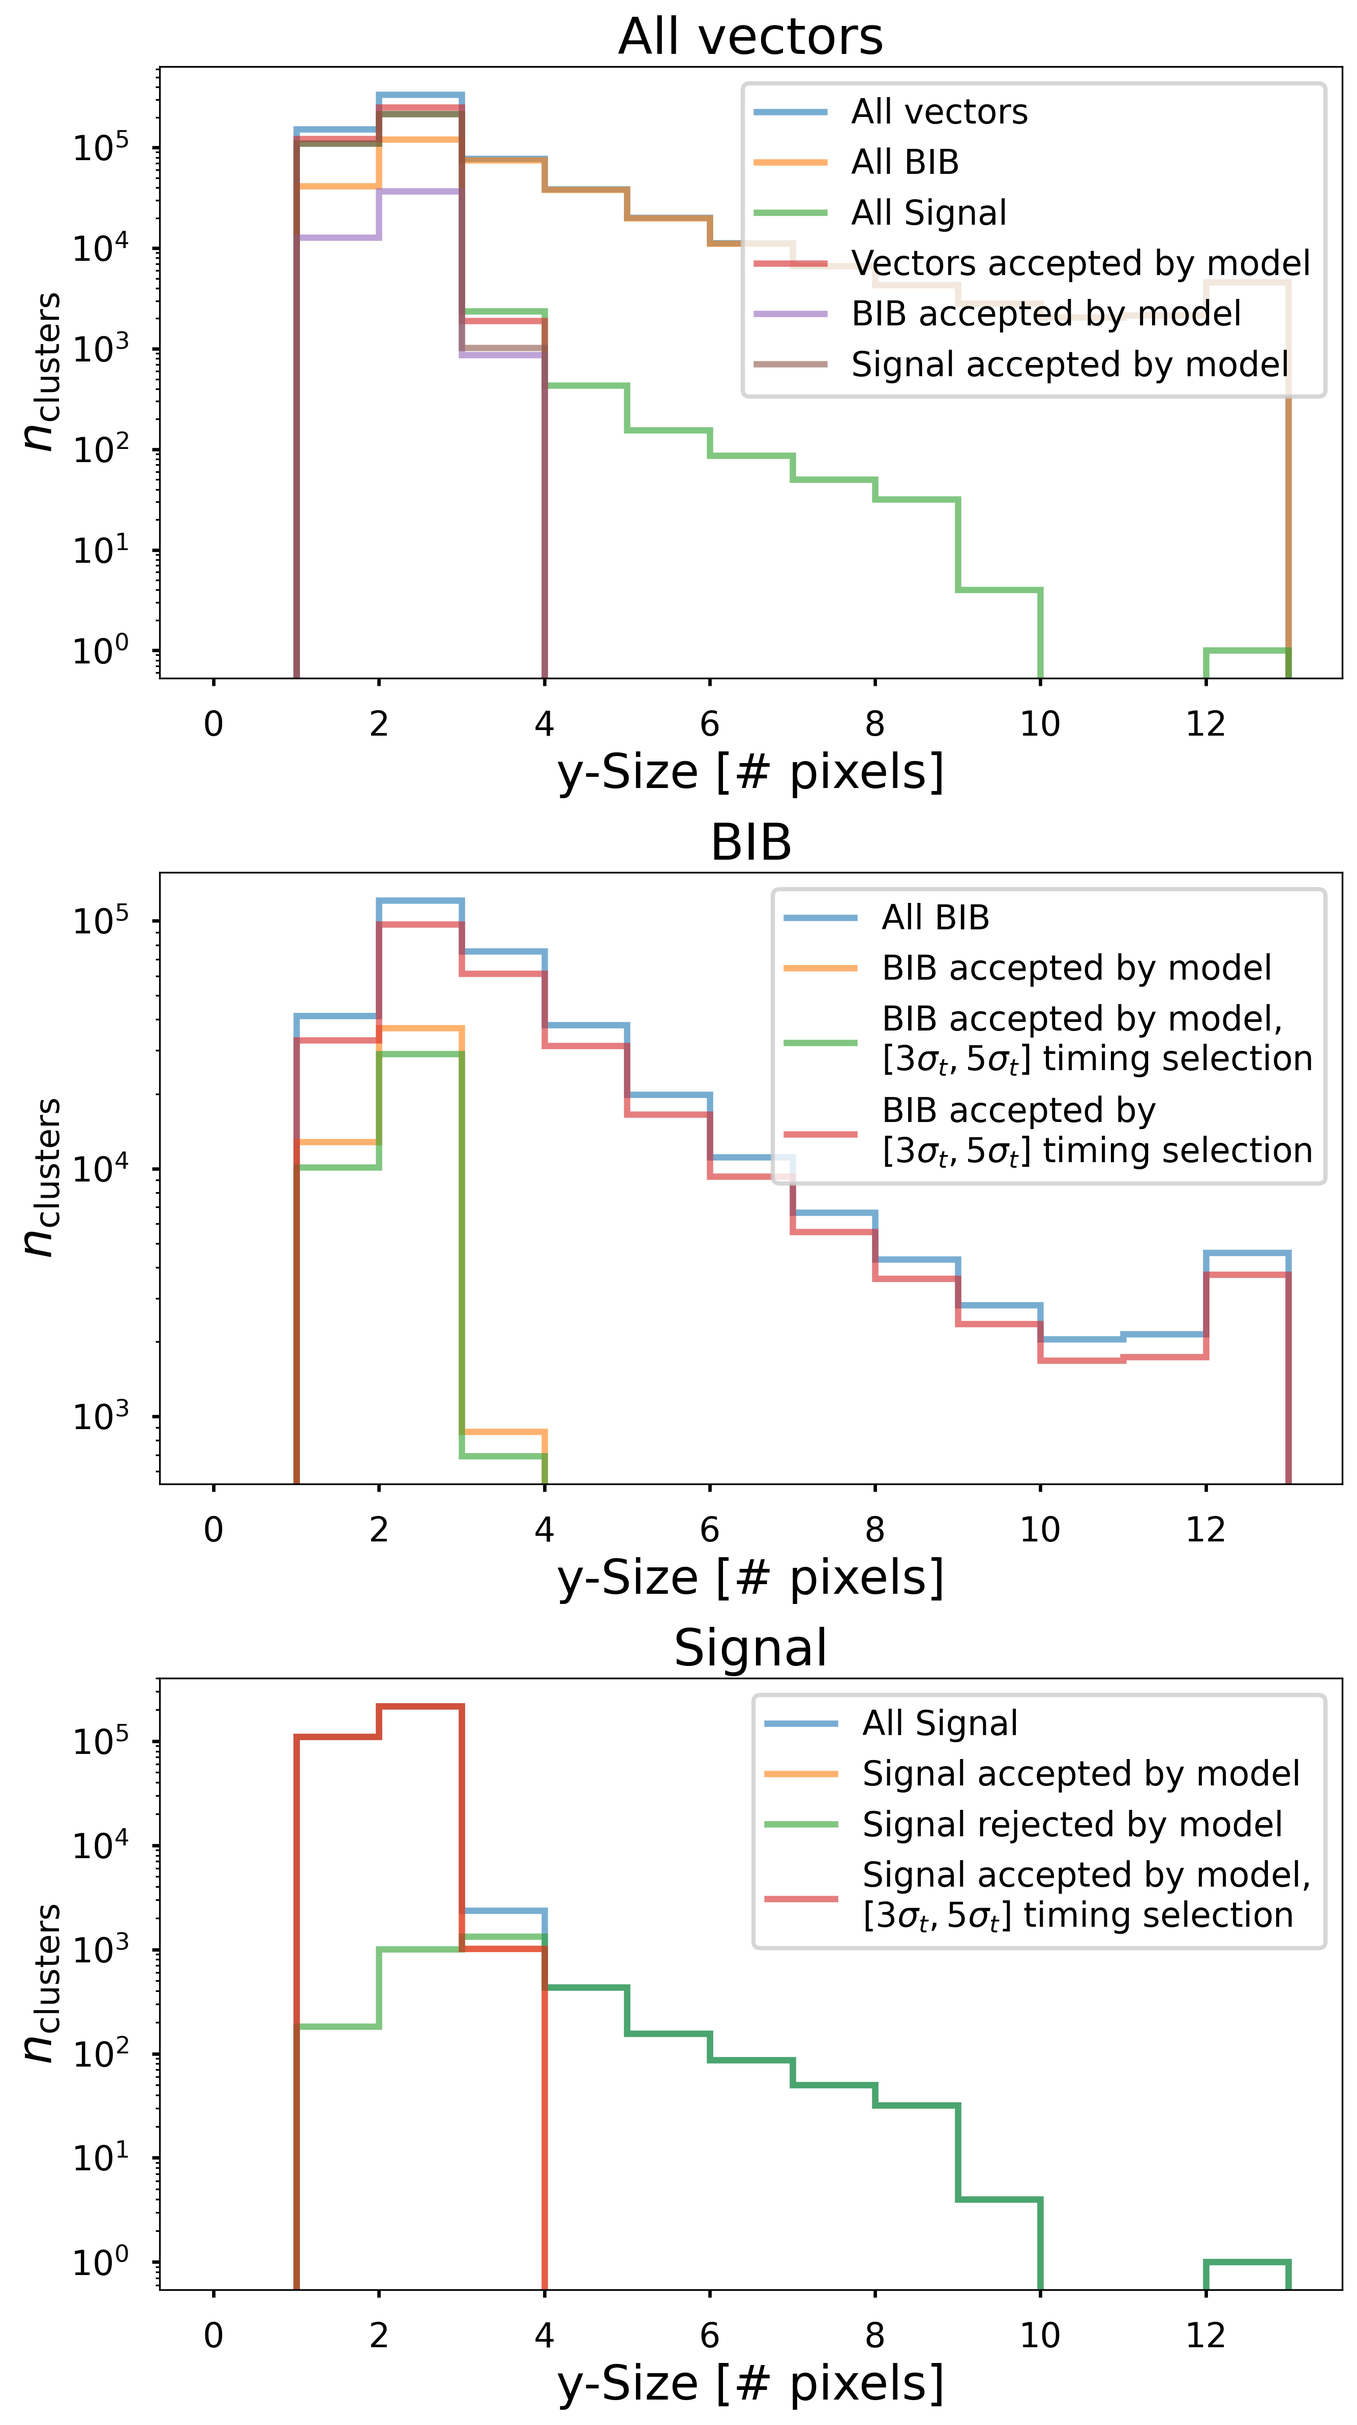
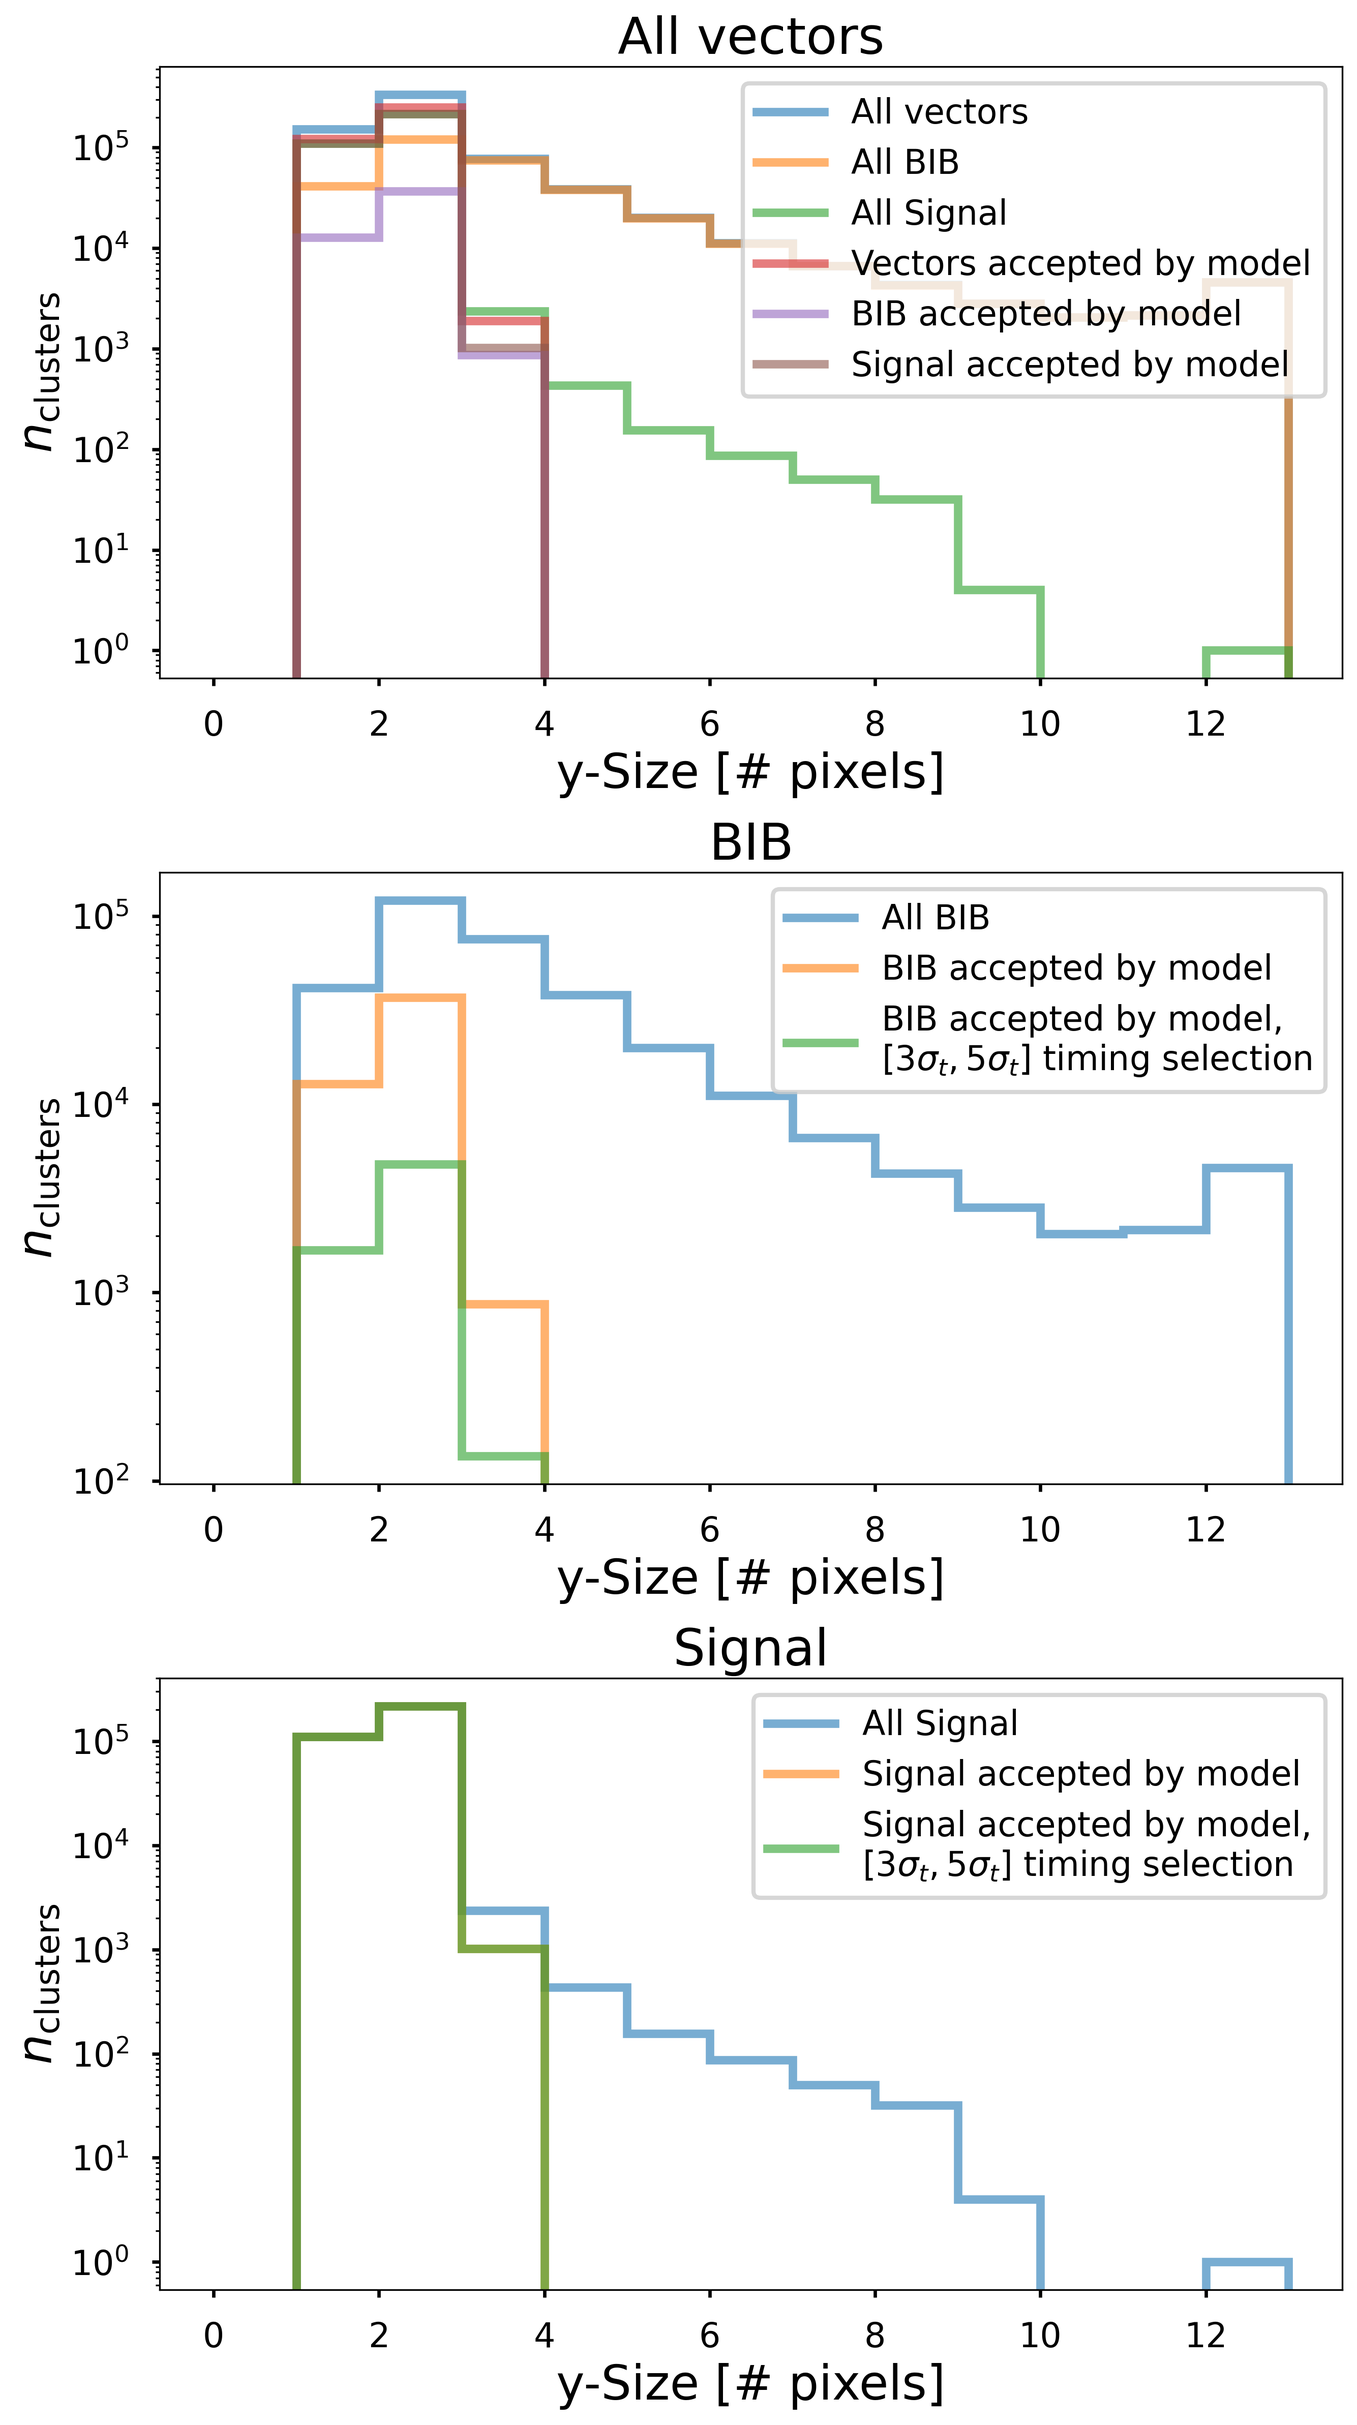
Updates to some paper plots for resubmission last week.
updated plotUtils.py to get passed in linewidth or by default use
the rcParams linewidth for drawing histograms.

updated predictionPlotter.py to resize some of the paper plots

diff --git a/paperPlots/predictionPlotter.py b/paperPlots/predictionPlotter.py
@@ -30,7 +30,7 @@ plt.style.use(styleSheet)
 N_CPU = 1
 loadPredVarPkl = True #if true then load based on saved pkls, if false regenerate the predVarDF and save new pkls
 FILTER_TIME = True #add the -0.5 to 15 ns filter
-TIMING_SMEARING = 400; #ps
+TIMING_SMEARING = 30; #ps
 
 matplotlib.rcParams["figure.dpi"] = 300
 plt.rcParams["patch.linewidth"] = 2
@@ -216,19 +216,19 @@ def runForPath(path,filterTime=FILTER_TIME,timingSigmaPs=TIMING_SMEARING):
 
     assert f"{timingSigmaPs}" in timingVar
 
-    plotSeveral2by2s(predVarDF, threshVal, pltDir)
+    # plotSeveral2by2s(predVarDF, threshVal, pltDir)
     plotAll1dHists(predVarDF,threshVal,pltDir,timingVar=timingVar,timingStart=timingStart,timingEnd=timingEnd)
-    plotNew2by2(predVarDF, threshVal, pltDir)
+    # plotNew2by2(predVarDF, threshVal, pltDir)
 
-    newDataRates(predVarDF,threshVal,pltDir,timingVar=timingVar,timingStart=timingStart,timingEnd=timingEnd)
+    # newDataRates(predVarDF,threshVal,pltDir,timingVar=timingVar,timingStart=timingStart,timingEnd=timingEnd)
 
 def plotAll1dHists(predVarDF,threshVal,pltDir,timingVar="adjusted_hit_time_30ps_gaussian",timingStart=-0.09,timingEnd=0.150):
     print(predVarDF)
     print(predVarDF.keys())
     if timingVar in predVarDF.keys():
         histoKarri(predVarDF,threshVal,pltDir,key=timingVar,keyLabel="Cluster Hit Arrival Time [ns]",figsize=(9,16),bins=100,timingVar=timingVar,timingStart=timingStart,timingEnd=timingEnd)
-        histoKarri(predVarDF,threshVal,pltDir,key=timingVar,keyLabel=r"$t_{\mathrm{corr}}$ [ns]",figsize=(9,7),bins=np.arange(timingStart-.24*2,15,.24),plotAll=False,plotSig=False,extendSaveTitle="paperVersion",bibTitle="",ylim=[1e1,4.5e4],timingVar=timingVar,timingStart=timingStart,timingEnd=timingEnd,)
-    histoKarri(predVarDF,threshVal,pltDir,key="z-global",keyLabel=r'$z_{\mathrm{global}}$ [mm]',figsize=(9,7),bins=60,plotAll=False,plotSig = False,extendSaveTitle="paperVersion",bibTitle="",ylim=[1e1,4.5e4],locLegend="upper center",extraLinebreak="",timingVar=timingVar,timingStart=timingStart,timingEnd=timingEnd)
+        histoKarri(predVarDF,threshVal,pltDir,key=timingVar,keyLabel=r"$t_{\mathrm{corr}}$ [ns]",figsize=(8,6.2),bins=np.arange(timingStart-.24*2,15,.24),plotAll=False,plotSig=False,extendSaveTitle="paperVersion",bibTitle="",ylim=[1e1,1.1e5],timingVar=timingVar,timingStart=timingStart,timingEnd=timingEnd,)
+    histoKarri(predVarDF,threshVal,pltDir,key="z-global",keyLabel=r'$z_{\mathrm{global}}$ [mm]',figsize=(8,6.2),bins=60,plotAll=False,plotSig = False,extendSaveTitle="paperVersion",bibTitle="",ylim=[1e1,1.1e5],locLegend="upper center",extraLinebreak="",timingVar=timingVar,timingStart=timingStart,timingEnd=timingEnd)
     histoKarri(predVarDF,threshVal,pltDir,key="z-global",keyLabel=r'$z_{\mathrm{global}}$ [mm]',figsize=(9,16),bins=100,timingVar=timingVar,timingStart=timingStart,timingEnd=timingEnd)
     histoKarri(predVarDF,threshVal,pltDir,key="pt",keyLabel=r"Transverse Momentum $p_T$ [GeV/c]",figsize=(9,16),bins=100,timingVar=timingVar,timingStart=timingStart,timingEnd=timingEnd)
     histoKarri(predVarDF,threshVal,pltDir,key="y-local",keyLabel="y-local [mm]",figsize=(9,16),bins=25,timingVar=timingVar,timingStart=timingStart,timingEnd=timingEnd)
@@ -236,8 +236,8 @@ def plotAll1dHists(predVarDF,threshVal,pltDir,timingVar="adjusted_hit_time_30ps_
     histoKarri(predVarDF,threshVal,pltDir,key="ySize",keyLabel="y-Size [# pixels]",bins=np.arange(0,14,1),figsize=(9,16),locLegend="upper right",timingVar=timingVar,timingStart=timingStart,timingEnd=timingEnd)
     histoKarri(predVarDF,threshVal,pltDir,key="nModule",keyLabel="Module Number (longitudinally counted)",bins=12,figsize=(9,16),timingVar=timingVar,timingStart=timingStart,timingEnd=timingEnd)
     histoKarri(predVarDF,threshVal,pltDir,key="nPix",keyLabel="Number of Pixels",bins=np.arange(0,np.max(predVarDF["nPix"]),1),figsize=(9,16),locLegend="upper right",timingVar=timingVar,timingStart=timingStart,timingEnd=timingEnd)
-    histoKarri(predVarDF,threshVal,pltDir,key="nPix",keyLabel="Number of Pixels",bins=np.arange(0,np.max(predVarDF["nPix"]),1),figsize=(7.5,6.1),locLegend="upper right",plotAll = False,plotSig=False,extendSaveTitle="paperVersionBib", bibTitle = "", sigTitle = "",timingVar=timingVar,timingStart=timingStart,timingEnd=timingEnd)
-    histoKarri(predVarDF,threshVal,pltDir,key="nPix",keyLabel="Number of Pixels",bins=np.arange(0,np.max(predVarDF["nPix"]),1),figsize=(7.5,6.1),locLegend="upper right",plotAll = False,plotBIB=False,extendSaveTitle="paperVersionSig", bibTitle = "", sigTitle = "",timingVar=timingVar,timingStart=timingStart,timingEnd=timingEnd)
+    histoKarri(predVarDF,threshVal,pltDir,key="nPix",keyLabel="Number of Pixels",bins=np.arange(0,np.max(predVarDF["nPix"]),1),figsize=(6.9,5.6),locLegend="upper right",plotAll = False,plotSig=False,extendSaveTitle="paperVersionBib", bibTitle = "", sigTitle = "",timingVar=timingVar,timingStart=timingStart,timingEnd=timingEnd,ylim=[1e1,1.1e5])
+    histoKarri(predVarDF,threshVal,pltDir,key="nPix",keyLabel="Number of Pixels",bins=np.arange(0,np.max(predVarDF["nPix"]),1),figsize=(6.9,5.6),locLegend="upper right",plotAll = False,plotBIB=False,extendSaveTitle="paperVersionSig", bibTitle = "", sigTitle = "",timingVar=timingVar,timingStart=timingStart,timingEnd=timingEnd,ylim=[1e1,1.1e5])
     histoKarri(predVarDF,threshVal,pltDir,key="cotAlpha",keyLabel=r"cot($\alpha$)",bins=12,figsize=(9,16),timingVar=timingVar,timingStart=timingStart,timingEnd=timingEnd)
     histoKarri(predVarDF,threshVal,pltDir,key="cotBeta",keyLabel=r"cot($\beta$)",bins=12,figsize=(9,16),timingVar=timingVar,timingStart=timingStart,timingEnd=timingEnd)
     print("finished 1d histograms")
@@ -254,9 +254,9 @@ def plotSeveral2by2s(predVarDF, threshVal, pltDir,interactivePlots = False,cmap=
     title=""# not sure if it should be
     colorLabel=r"$n_{\mathrm{clusters}}$"
     # def plot2dHistFromTruth(truthDF,  keyX, keyY, mask, binsX, binsY, cmap, xlabel,ylabel,title,logColor = True,colorLabel=r"$n_{\mathrm{clusters}}$"):
-    keyXs = ["z-global","xSize","ySize","y-local","nPix","pt"]
-    binsXs = [binsZGlobal,binsXSize,binsYSize,binsYlocal,np.arange(0,43,1),100]
-    xlabels=[r'$z_{\mathrm{global}}$ [mm]',r'$x_{\mathrm{size}}$ [# pixels]',r'$y_{\mathrm{size}}$ [# pixels]',r'$y_{\mathrm{local}}$ [mm]',r'Number of Pixels',r"Transverse Momentum $p_T$ [GeV/c]"]
+    keyXs = ["z-global","xSize","ySize","y-local","nPix","pt","cotAlpha","cotBeta"]
+    binsXs = [binsZGlobal,binsXSize,binsYSize,binsYlocal,np.arange(0,43,1),100,np.linspace(-10,10,50),np.linspace(-10,10,50)]
+    xlabels=[r'$z_{\mathrm{global}}$ [mm]',r'$x_{\mathrm{size}}$ [# pixels]',r'$y_{\mathrm{size}}$ [# pixels]',r'$y_{\mathrm{local}}$ [mm]',r'Number of Pixels',r"Transverse Momentum $p_T$ [GeV/c]",r"cot($\alpha$)",r"cot($\beta$)"]
     nPlotsX=len(keyXs);
     # extendTitles=[keyX+"vsyyyy" for keyX in keyXs]
     # genTitles=[keyX+"vsyyyy" for keyX in keyXs]
@@ -274,12 +274,12 @@ def plotSeveral2by2s(predVarDF, threshVal, pltDir,interactivePlots = False,cmap=
     # plotters = [functools.partial(plot2dHistFromTruth,  keyX=keyXs[idx],keyY="xSize", mask=None, binsX=binsXs[idx], binsY=binsXSize, cmap=cmap, xlabel=xlabels[idx],ylabel=r'$x_{\mathrm{size}}$ [# pixels]',logColor = True,colorLabel=colorLabel) for idx in range(nPlots)]
     for idy,plotters in enumerate(allPlotterLists):
         for idx,plotter in enumerate(plotters):
-            print(plotter)
+            # print(plotter)
             plotNew2by2(predVarDF,threshVal,pltDir,interactivePlots,"",cmap=None,figsize=figsize,plotter=plotter,genTitle=keyXs[idx]+"vs"+keyYs[idy])
 
 def histoKarri(predVarDF,cut,pltDir,key="z-global",keyLabel="",figsize=(9,16),bins="auto",yscale="log",locLegend = "best",
-               plotAll = True, plotBIB = True, plotSig = True,extendSaveTitle="",allTitle="All vectors",bibTitle = "BIB",sigTitle="Signal",
-               ylim=None,increaseFontSize=True,extraLinebreak="\n",timingVar = "adjusted_hit_time_30ps_gaussian",timingStart=-0.09,timingEnd=0.150):
+               plotAll = True, plotBIB = True, plotSig = True,extendSaveTitle="",allTitle="All vectors",bibTitle = "BIB",sigTitle="Signal",lw=4,#lw=plt.rcParams["patch.linewidth"]
+               ylim=None,increaseFontSize=True,extraLinebreak="\n",timingVar = "adjusted_hit_time_30ps_gaussian",timingStart=-0.09,timingEnd=0.150,):
     configsAll = [
         (predVarDF, "All vectors"),
         (predVarDF.query("trueY == 0"), "All BIB"),
@@ -291,14 +291,14 @@ def histoKarri(predVarDF,cut,pltDir,key="z-global",keyLabel="",figsize=(9,16),bi
     configsSig = [
         (predVarDF.query("trueY == 1"), "All Signal"),
         (predVarDF.query("trueY == 1 and prediction > @cut"), "Signal accepted by model"),
-        (predVarDF.query("trueY == 1 and prediction < @cut"), "Signal rejected by model"),
         (predVarDF.query(f"trueY == 1 and prediction > @cut and {timingVar} > @timingStart and {timingVar} < @timingEnd"), "Signal accepted by model,\n"+ r"$[3\sigma_t, 5\sigma_t]$ timing selection"),
+        # (predVarDF.query("trueY == 1 and prediction < @cut"), "Signal rejected by model"),
     ]
     configsBib = [
         (predVarDF.query("trueY == 0"), "All BIB"),
         (predVarDF.query("trueY == 0 and prediction > @cut"), "BIB accepted by model"),
         (predVarDF.query(f"trueY == 0 and prediction > @cut and {timingVar} > @timingStart and {timingVar} < @timingEnd"), f"BIB accepted by model, {extraLinebreak}"+ r"$[3\sigma_t, 5\sigma_t]$ timing selection"),
-        (predVarDF.query(f"trueY == 0 and {timingVar} > @timingStart and {timingVar} < @timingEnd"), f"BIB accepted by {extraLinebreak}"+ r"$[3\sigma_t, 5\sigma_t]$ timing selection"),
+        # (predVarDF.query(f"trueY == 0 and {timingVar} > @timingStart and {timingVar} < @timingEnd"), f"BIB accepted by {extraLinebreak}"+ r"$[3\sigma_t, 5\sigma_t]$ timing selection"),
     ]
     totalPlots = plotAll + plotBIB + plotSig
     plt.figure(figsize=figsize)
@@ -310,7 +310,7 @@ def histoKarri(predVarDF,cut,pltDir,key="z-global",keyLabel="",figsize=(9,16),bi
         plotManyHisto(arrs=[df_subset[key] for (df_subset, title) in configsAll],
                     bins=bins,title=allTitle,pltLabels =[title for (df_subset, title) in configsAll],
                     pltStandalone=False,yscale=yscale,xlabel=keyLabel,ylabel=r"$n_{\mathrm{clusters}}$",legendLoc=locLegend,
-                    alphas = [0.6 for _ in configsAll]);
+                    alphas = [0.6 for _ in configsAll],lw=lw);
         if ylim is not None:
             plt.ylim(ylim)
         if increaseFontSize:
@@ -321,7 +321,7 @@ def histoKarri(predVarDF,cut,pltDir,key="z-global",keyLabel="",figsize=(9,16),bi
         plotManyHisto(arrs=[df_subset[key] for (df_subset, title) in configsBib],
                     bins=bins,title=bibTitle,pltLabels =[title for (df_subset, title) in configsBib],
                     pltStandalone=False,yscale=yscale,xlabel=keyLabel,ylabel=r"$n_{\mathrm{clusters}}$",legendLoc=locLegend,
-                    alphas = [0.6 for _ in configsBib]);
+                    alphas = [0.6 for _ in configsBib],lw=lw);
         if ylim is not None:
             plt.ylim(ylim)
         if increaseFontSize:
@@ -332,7 +332,7 @@ def histoKarri(predVarDF,cut,pltDir,key="z-global",keyLabel="",figsize=(9,16),bi
         plotManyHisto(arrs=[df_subset[key] for (df_subset, title) in configsSig],
                     bins=bins,title=sigTitle,pltLabels =[title for (df_subset, title) in configsSig],
                     pltStandalone=False,yscale=yscale,xlabel=keyLabel,ylabel=r"$n_{\mathrm{clusters}}$",legendLoc=locLegend,
-                    alphas = [0.6 for _ in configsSig]);
+                    alphas = [0.6 for _ in configsSig],lw=lw);
         if ylim is not None:
             plt.ylim(ylim)
         if increaseFontSize:

diff --git a/daniel/validationPlots/plotUtils.py b/daniel/validationPlots/plotUtils.py
@@ -97,7 +97,7 @@ def reshapeCluster(recon2d__):
     return recon2d__.to_numpy().reshape(recon2d__.shape[0],13,21)
 
 def plotHisto(arr,bins=None,postScale=1,title="",pltStandalone=True,pltLabel="",showNums=True,addPoisErr=False,
-              xlabel="",ylabel="",alpha=1,labelFontsize=plt.rcParams['axes.labelsize'],titleFontsize=plt.rcParams['axes.titlesize']):
+              xlabel="",ylabel="",alpha=1,labelFontsize=plt.rcParams['axes.labelsize'],titleFontsize=plt.rcParams['axes.titlesize'],lw=plt.rcParams["patch.linewidth"]):
     if pltStandalone:
         plt.figure(figsize=(4,1))
     if bins is None:
@@ -106,7 +106,7 @@ def plotHisto(arr,bins=None,postScale=1,title="",pltStandalone=True,pltLabel="",
         hist, bin_edges = np.histogram(arr,bins=bins)
     else:
         hist, bin_edges = np.histogram(np.clip(arr,bins[0],bins[-1]),bins=bins)
-    plt.stairs(hist*postScale,bin_edges,label=pltLabel,alpha=alpha,fill=False,lw=3)#,linestyle=plt.rcParams.get("lines.linestyle", "-"))
+    plt.stairs(hist*postScale,bin_edges,label=pltLabel,alpha=alpha,fill=False,lw=lw)#,linestyle=plt.rcParams.get("lines.linestyle", "-"))
     if addPoisErr:
         bin_centers = (bin_edges[:-1] + bin_edges[1:]) / 2
         errors = np.sqrt(hist) * postScale
@@ -174,7 +174,7 @@ def plotHistoBibSig(truthBib,truthSig,key,pltStandalone,bins=None,showNums=False
 
 
 def plotManyHisto(arrs,bins=None,postScale=1,title="",pltLabels=["1","2","3"],pltStandalone=True,showNums=False,
-                  figsize=(7,3),yscale="linear",xlabel="",ylabel="Tracks",
+                  figsize=(7,3),yscale="linear",xlabel="",ylabel="Tracks",lw=plt.rcParams["patch.linewidth"],
                   PLOT_DIR=None,interactivePlots=None,saveTitle=None,alphas = None,legendLoc = "best",addPoisErr=False):
     assert len(arrs) == len(pltLabels)
     if alphas is None:
@@ -197,7 +197,7 @@ def plotManyHisto(arrs,bins=None,postScale=1,title="",pltLabels=["1","2","3"],pl
 
     # plotHisto(arrs,bins=bins,postScale=postScale,title=title,pltStandalone=False,pltLabel=pltLabels,showNums=showNums)
     for i in range(len(arrs)):
-        plotHisto(arrs[i],bins=bins,postScale=postScale,title=title,pltStandalone=False,pltLabel=pltLabels[i],showNums=showNums,xlabel="",ylabel=ylabel,alpha=alphas[i],addPoisErr=addPoisErr)
+        plotHisto(arrs[i],bins=bins,postScale=postScale,title=title,pltStandalone=False,pltLabel=pltLabels[i],showNums=showNums,xlabel="",ylabel=ylabel,alpha=alphas[i],addPoisErr=addPoisErr,lw=lw)
     plt.legend(loc=legendLoc)
     plt.xlabel(xlabel)
     plt.yscale(yscale)
